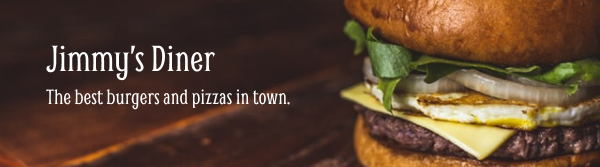
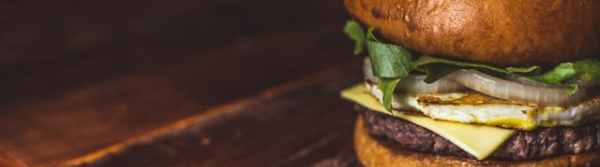
CSS Layout work!

Changed region(s): [[0.06, 0.2695, 0.36, 0.479], [0.06, 0.5389, 0.48, 0.6587]]

diff --git a/index.css b/index.css
@@ -2,28 +2,70 @@ body {
     margin: 0 auto;
     width: 600px;
     background-color: hsl(0, 0%, 15%);
-}
-
-.single-menu-item {
-    border-bottom: 1px solid #000;
-    background-color: #fff;
-    align-content: center;
     font-family: "Smythe", system-ui;
     font-weight: 400;
     font-style: normal;
 }
 
+header {
+    position: relative;
+    color: #fff;
+}
+
+header h1 {
+    font-size: 39px;
+    margin-bottom: 0px;
+}
+
+header h2{
+    font-size: 22.42px;
+    margin-top: 5px;
+}
+
+.header-text {
+    position: absolute;
+    top: 20px;
+    left: 46px;
+}
+
+.item-list {
+    background-color: #fff;
+}
+
 .single-menu-item {
     display: flex;
+    border-bottom: 1px solid #D2D2D2;
+    background-color: #fff;
+    align-content: center;
+    justify-content: space-evenly;
+    width: 90%;
+    margin: 0 auto;
+    padding-bottom: 10px;
 }
 
 .menu-item-image {
     font-size: 80px;
     align-self: center;
+    opacity: 80%;
 }
 
 .menu-item-details {
     width: 358px;
+    padding-left: 15px;
+}
+
+.menu-item-details h3{
+    font-size: 28px;
+    margin-bottom: 5px;
+}
+
+.ingredients-text {
+    color: #8B8B8B;
+    margin-top: 0px;
+}
+
+.price-text {
+    color: #000;
 }
 
 .add-to-order {

diff --git a/index.js b/index.js
@@ -16,8 +16,8 @@ function getFeedHtml() {
                 </div>
                 <div class="menu-item-details">
                     <h3>${item.name}</h3>
-                    <p>${item.ingredients}</p>
-                    <p>${item.price}</p>
+                    <p class="ingredients-text">${item.ingredients.join(', ')}</p>
+                    <p class="price-text">$${item.price}</p>
                 </div>
                 <div class="add-to-order">
                     <button class="add-to-order-btn">+</button>

diff --git a/index.html b/index.html
@@ -9,7 +9,11 @@
     </head>
     <body>
         <header>
-            <img src="images/header2.jpg">
+            <img src="images/header.png">
+            <div class="header-text">
+                <h1>Jimmy's Diner</h1>
+                <h2>The best burgers and pizzas in town.</h2>
+            </div>
         </header>
         <main>
             <div class="item-list" id="item-list">

diff --git a/data.js b/data.js
@@ -1,7 +1,7 @@
 const menuArray = [
     {
         name: "Pizza",
-        ingredients: ["pepperoni", "mushrom", "mozarella"],
+        ingredients: ["pepperoni", "mushroom", "mozarella"],
         id: 0,
         price: 14,
         emoji: "🍕"
